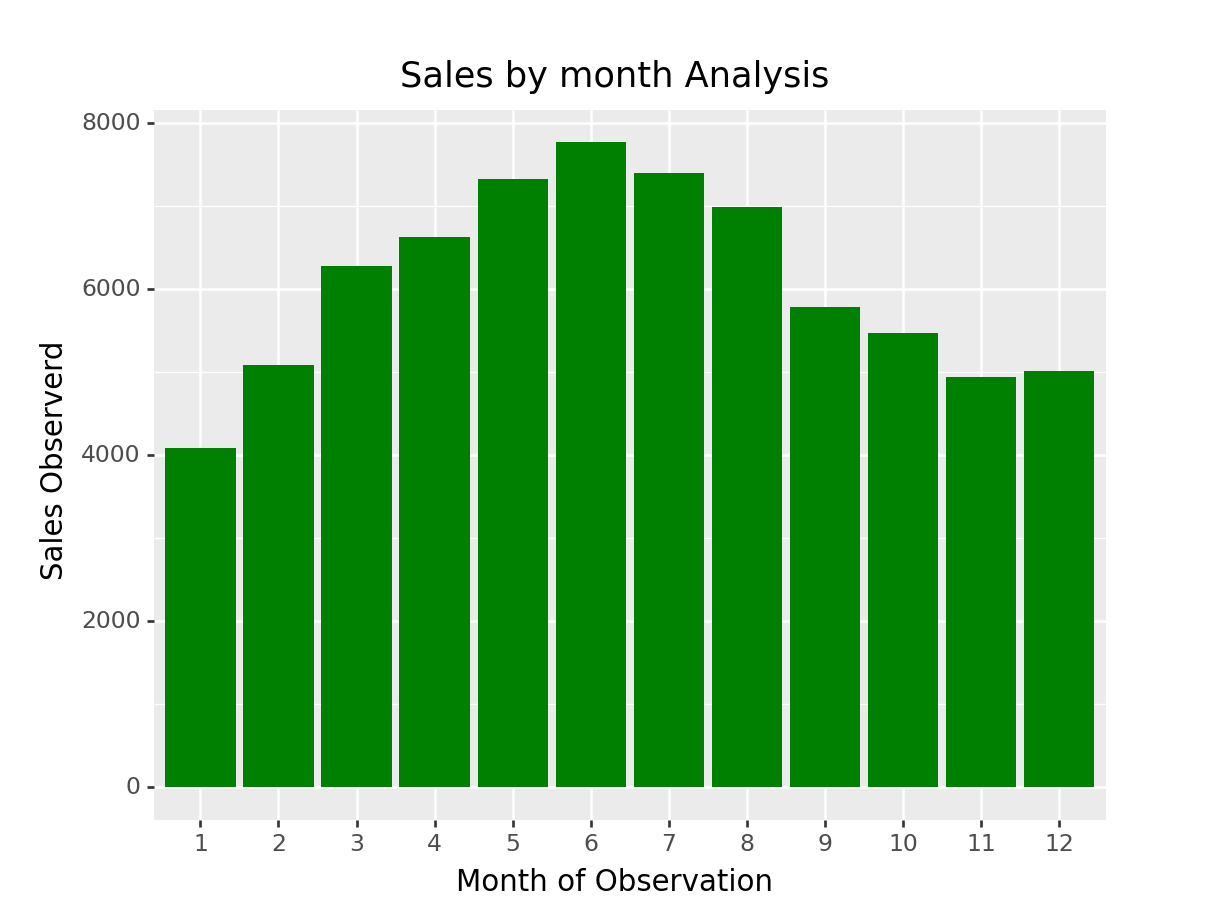
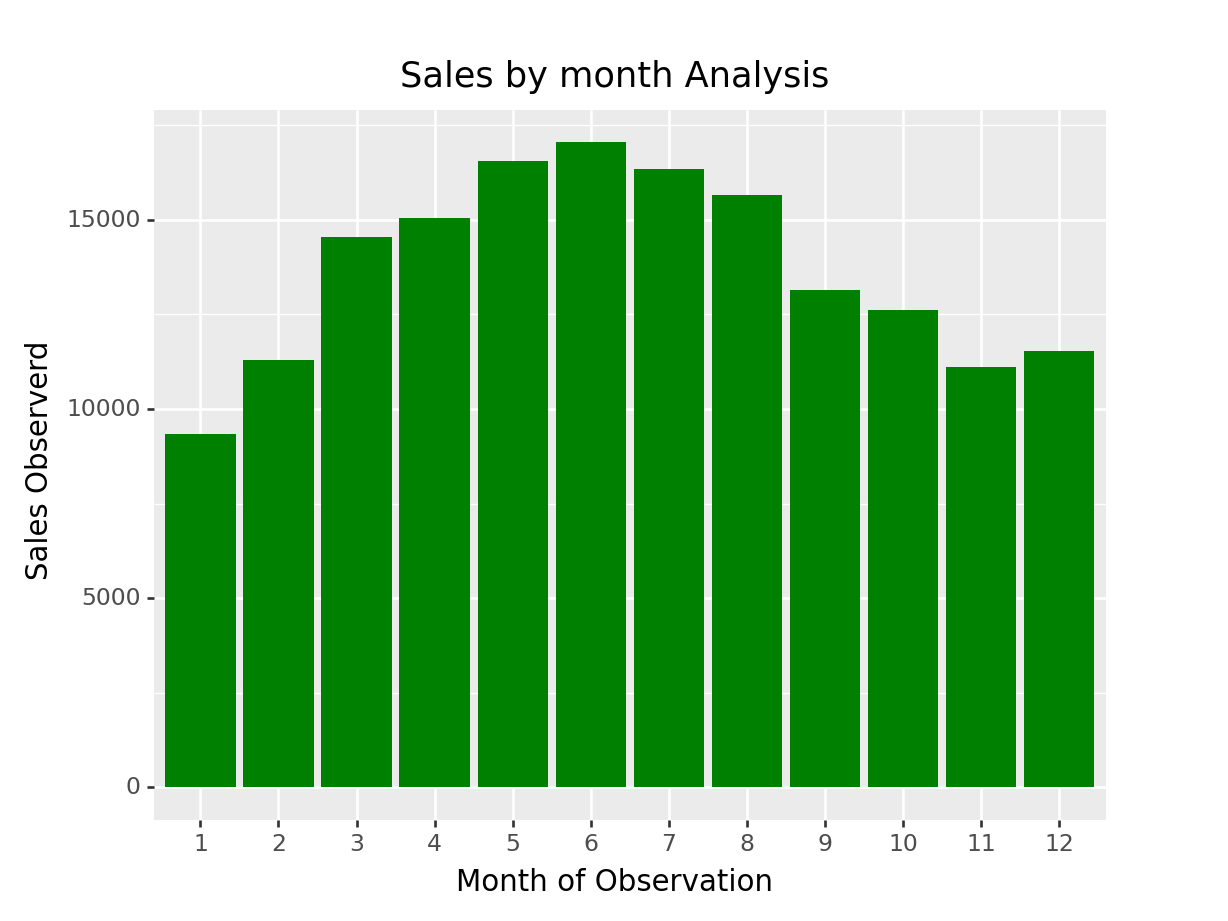
plotnine

diff --git a/content/post/python/plotnine/plotnine.html b/content/post/python/plotnine/plotnine.html
@@ -75,9 +75,9 @@ from plotnine.data import txhousing</code></pre>
 <pre class="python"><code># few house keeping scripts
 txhousing = txhousing.sort_values(&#39;month&#39;)
 txhousing.month = txhousing.month.astype(object)
-txhousing = txhousing[txhousing.city.isin([&#39;Abilene&#39;,&#39;Amarillo&#39;,&#39;arlingen&#39;])]
+txhousing = txhousing[txhousing.city.isin([&#39;Abilene&#39;,&#39;Amarillo&#39;,&#39;Arlington&#39;,&#39;Brownsville&#39;])]
 ggplot(txhousing,aes(x=&#39;month&#39;,y=&quot;sales&quot;))</code></pre>
-<pre><code>## &lt;ggplot: (52365328)&gt;</code></pre>
+<pre><code>## &lt;ggplot: (54430486)&gt;</code></pre>
 <p><img src="/post/python/plotnine/plotnine_files/figure-html/unnamed-chunk-3-1.png" width="614" /></p>
 </div>
 <div id="adding-layers" class="section level3">
@@ -86,7 +86,9 @@ ggplot(txhousing,aes(x=&#39;month&#39;,y=&quot;sales&quot;))</code></pre>
 <p>A list of other usable <em>geoms</em> can be found <a href="https://plotnine.readthedocs.io/en/stable/api.html#geoms" title="Plotnine documentation">here</a>.</p>
 <pre class="python"><code>ggplot(txhousing,aes(x=&#39;month&#39;,y=&quot;sales&quot;))+ \
   geom_col(fill=&quot;green&quot;)</code></pre>
-<pre><code>## &lt;ggplot: (52602977)&gt;</code></pre>
+<pre><code>## &lt;ggplot: (54667668)&gt;
+## 
+## C:\Users\GEORGE~1\ANACON~1\lib\site-packages\plotnine\layer.py:381: PlotnineWarning: position_stack : Removed 2 rows containing missing values.</code></pre>
 <p><img src="/post/python/plotnine/plotnine_files/figure-html/unnamed-chunk-4-3.png" width="614" /></p>
 </div>
 <div id="adding-labels" class="section level3">
@@ -95,7 +97,9 @@ ggplot(txhousing,aes(x=&#39;month&#39;,y=&quot;sales&quot;))</code></pre>
 <pre class="python"><code>ggplot(txhousing,aes(x=&#39;month&#39;,y=&quot;sales&quot;))+ \
   geom_col(fill=&quot;green&quot;)+\
     labs(x=&quot;Month of Observation&quot;,y=&quot;Sales Observerd&quot;,title=&quot;Sales by month Analysis&quot;)</code></pre>
-<pre><code>## &lt;ggplot: (77999493)&gt;</code></pre>
+<pre><code>## &lt;ggplot: (92684620)&gt;
+## 
+## C:\Users\GEORGE~1\ANACON~1\lib\site-packages\plotnine\layer.py:381: PlotnineWarning: position_stack : Removed 2 rows containing missing values.</code></pre>
 <p><img src="/post/python/plotnine/plotnine_files/figure-html/unnamed-chunk-5-5.png" width="614" /></p>
 </div>
 <div id="beautify-with-theme" class="section level3">
@@ -115,7 +119,9 @@ ggplot(txhousing,aes(x=&#39;month&#39;,y=&quot;sales&quot;))+ \
       axis_title_x = element_text(size=10,color=&quot;orange&quot;),
       rect = element_rect(color=&quot;black&quot;,fill=&quot;gray&quot;),
       plot_background=element_rect(fill=&#39;cyan&#39;))</code></pre>
-<pre><code>## &lt;ggplot: (78132155)&gt;</code></pre>
+<pre><code>## &lt;ggplot: (92835982)&gt;
+## 
+## C:\Users\GEORGE~1\ANACON~1\lib\site-packages\plotnine\layer.py:381: PlotnineWarning: position_stack : Removed 2 rows containing missing values.</code></pre>
 <p><img src="/post/python/plotnine/plotnine_files/figure-html/unnamed-chunk-6-7.png" width="614" /></p>
 </div>
 <div id="configure-with-facets" class="section level3">
@@ -131,8 +137,10 @@ ggplot(txhousing,aes(x=&#39;month&#39;,y=&quot;sales&quot;))+ \
       axis_title_x = element_text(size=10,color=&quot;orange&quot;),
       rect = element_rect(color=&quot;black&quot;,fill=&quot;gray&quot;),
       plot_background=element_rect(fill=&#39;cyan&#39;))+\
-    facet_grid(&#39;city ~ .&#39;,scales=&#39;free&#39;)</code></pre>
-<pre><code>## &lt;ggplot: (78128430)&gt;</code></pre>
+    facet_wrap(&#39; ~ city&#39;)</code></pre>
+<pre><code>## &lt;ggplot: (92899606)&gt;
+## 
+## C:\Users\GEORGE~1\ANACON~1\lib\site-packages\plotnine\layer.py:381: PlotnineWarning: position_stack : Removed 2 rows containing missing values.</code></pre>
 <p><img src="/post/python/plotnine/plotnine_files/figure-html/unnamed-chunk-7-9.png" width="614" /></p>
 <p>From the introductory examples above,its clear that with a sound experience with <code>ggplot2,</code> package one can quickly get up and running with visualization in python since the syntax is purely the same.</p>
 </div>

diff --git a/content/authors/admin/_index.md b/content/authors/admin/_index.md
@@ -2,7 +2,7 @@
 authors:
 - admin
 avatar_image: 'full2.jpg'
-bio: My main areas of interest in data science  include Fintech,Business development and AI driven.
+bio: My main areas of interest in data science  include Fintech,Business development and AI driven solutions.
 btn:
 - label: Download My Resume
   url: https://sourcethemes.com/academic/docs/install/
@@ -24,7 +24,7 @@ education:
   - course: Machine Learning with R
     institution: Cognitive Class
     year: 2019 
-email: george.wamay@gmail.com
+email: george.wamaya@gmail.com
 interests:
 - Machine Learning and Artificial Intelligence
 - Statistics
@@ -36,7 +36,7 @@ name: George Oduor
 organizations:
 - name: Maisha Bank
   url: maishabank.com
-role: Digital Chanells officer
+role: Digital Channels officer
 social:
 - icon: envelope
   icon_pack: fas

diff --git a/content/home/posts.md b/content/home/posts.md
@@ -21,7 +21,7 @@ title = "Recent Posts"
   offset = 0
 
   # Page order. Descending (desc) or ascending (asc) date.
-  order = "asc"
+  order = "desc"
 
   # Filter posts by a taxonomy term.
   [content.filters]
